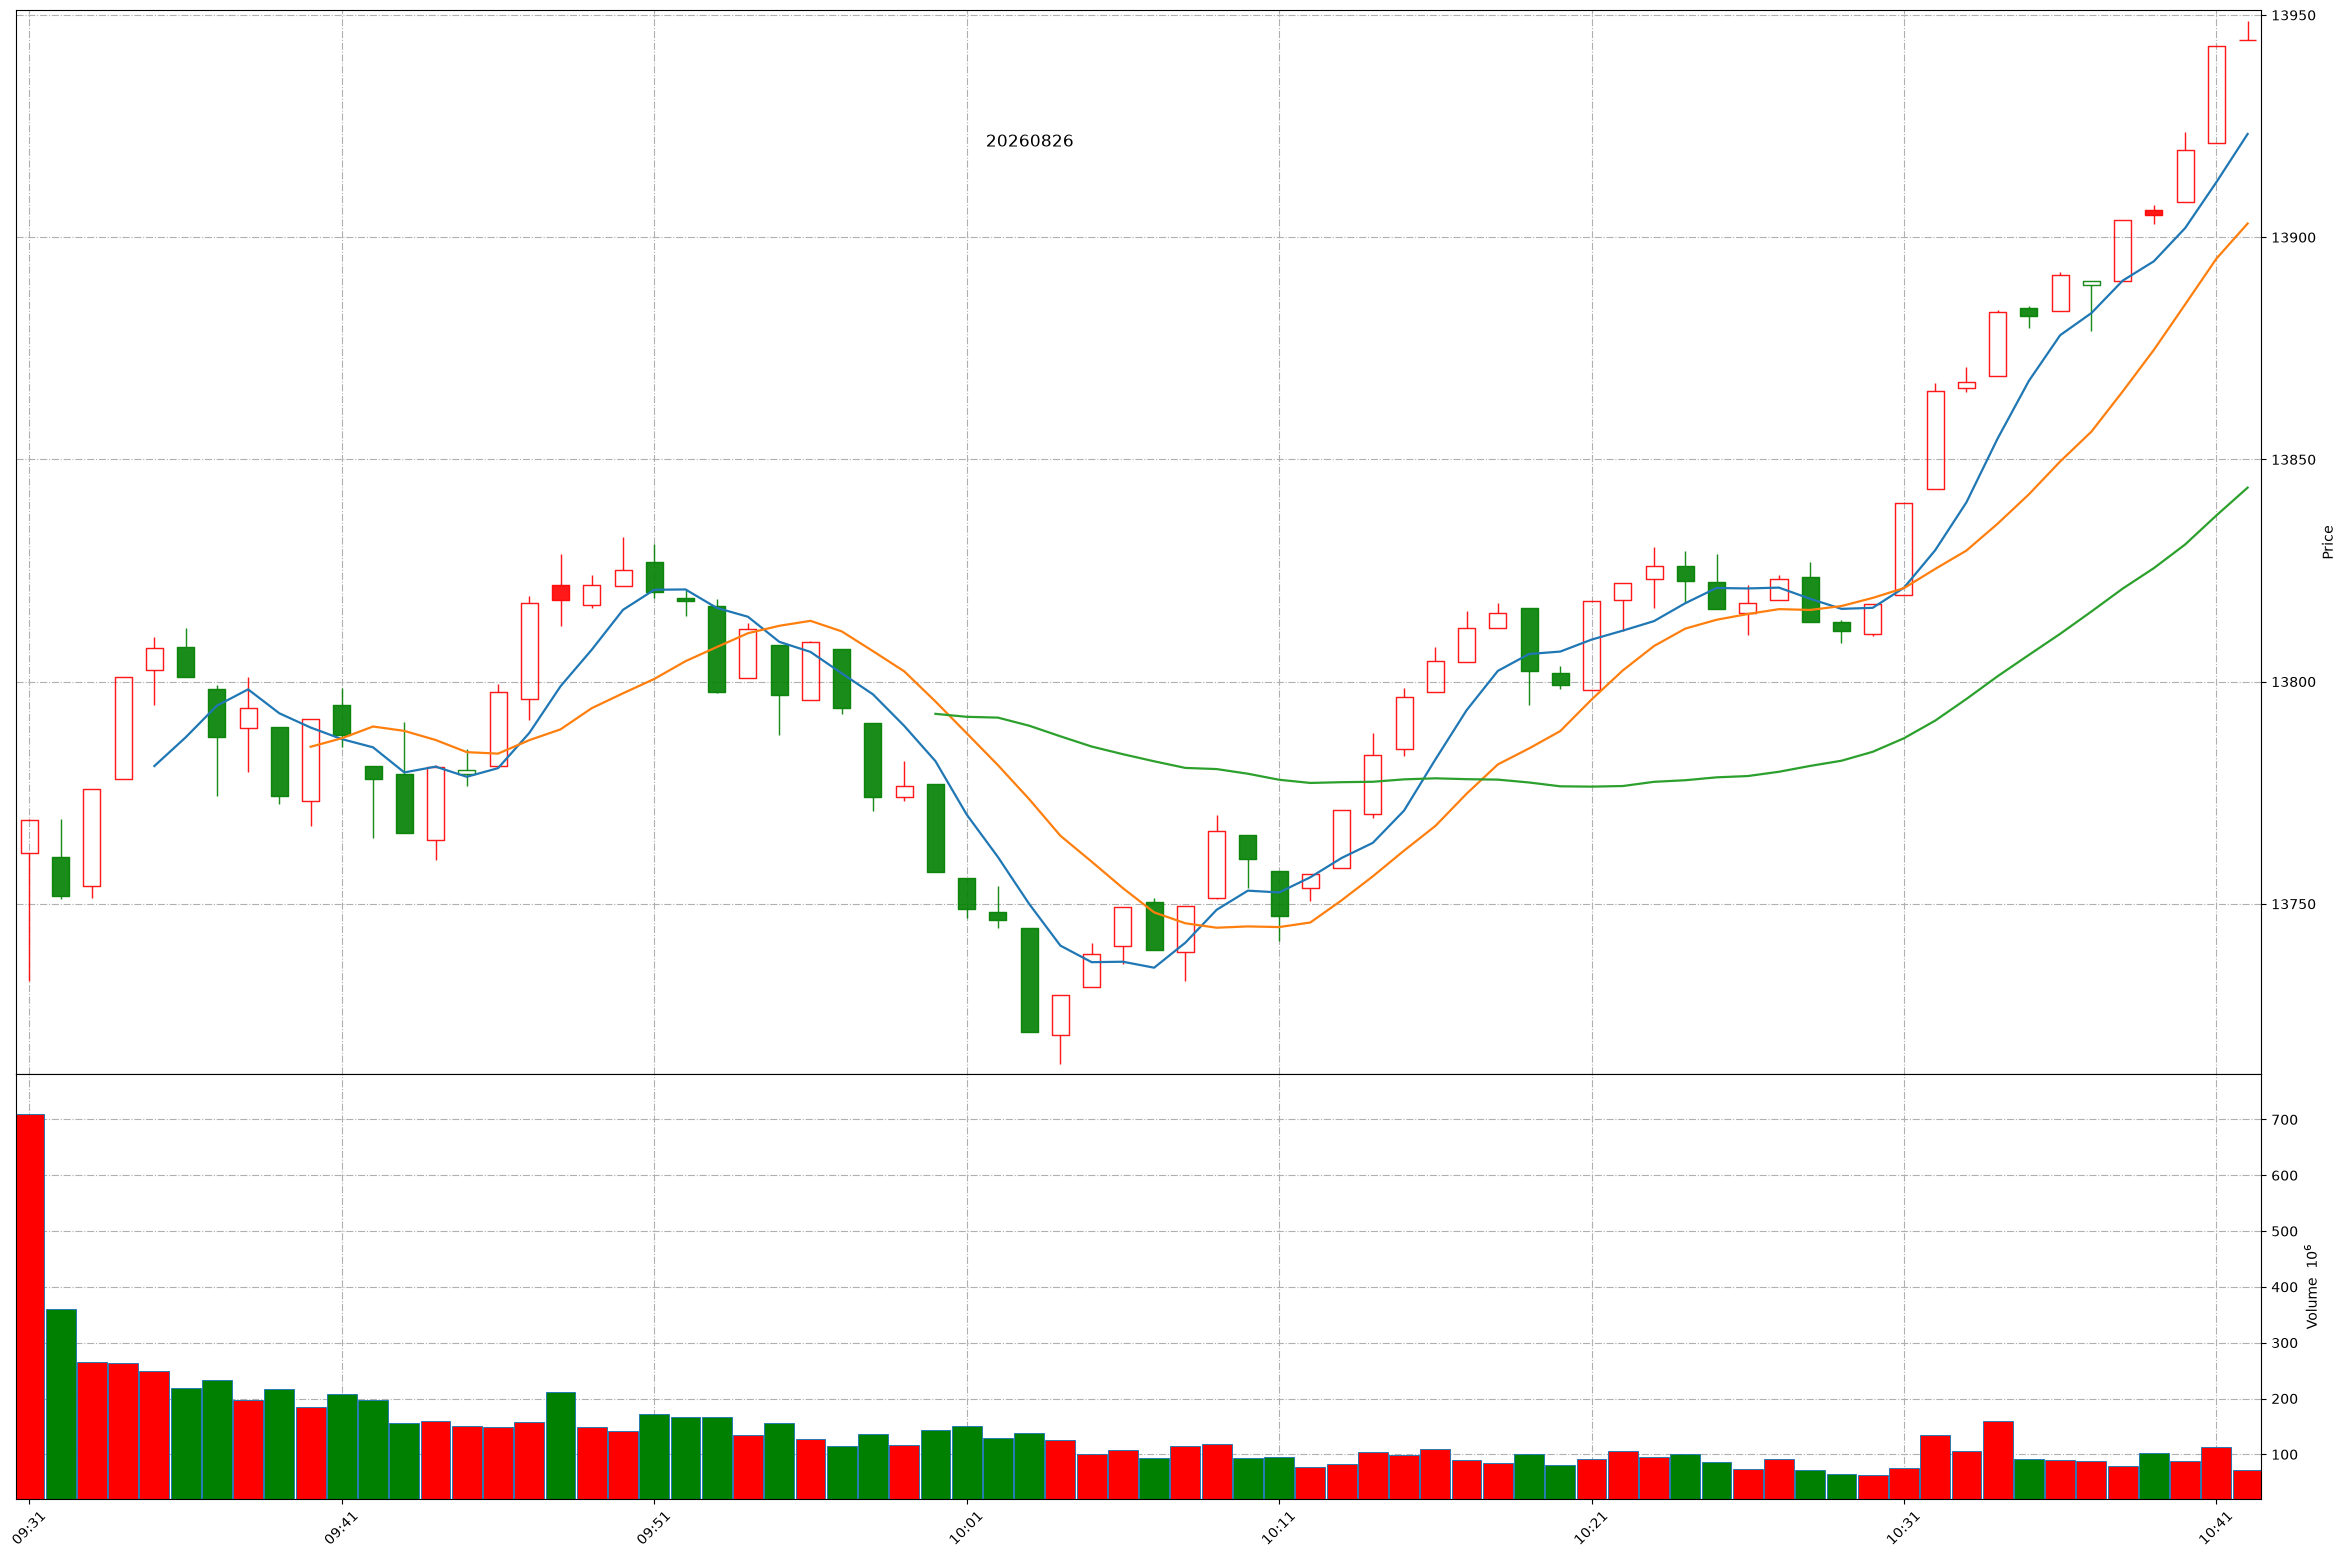
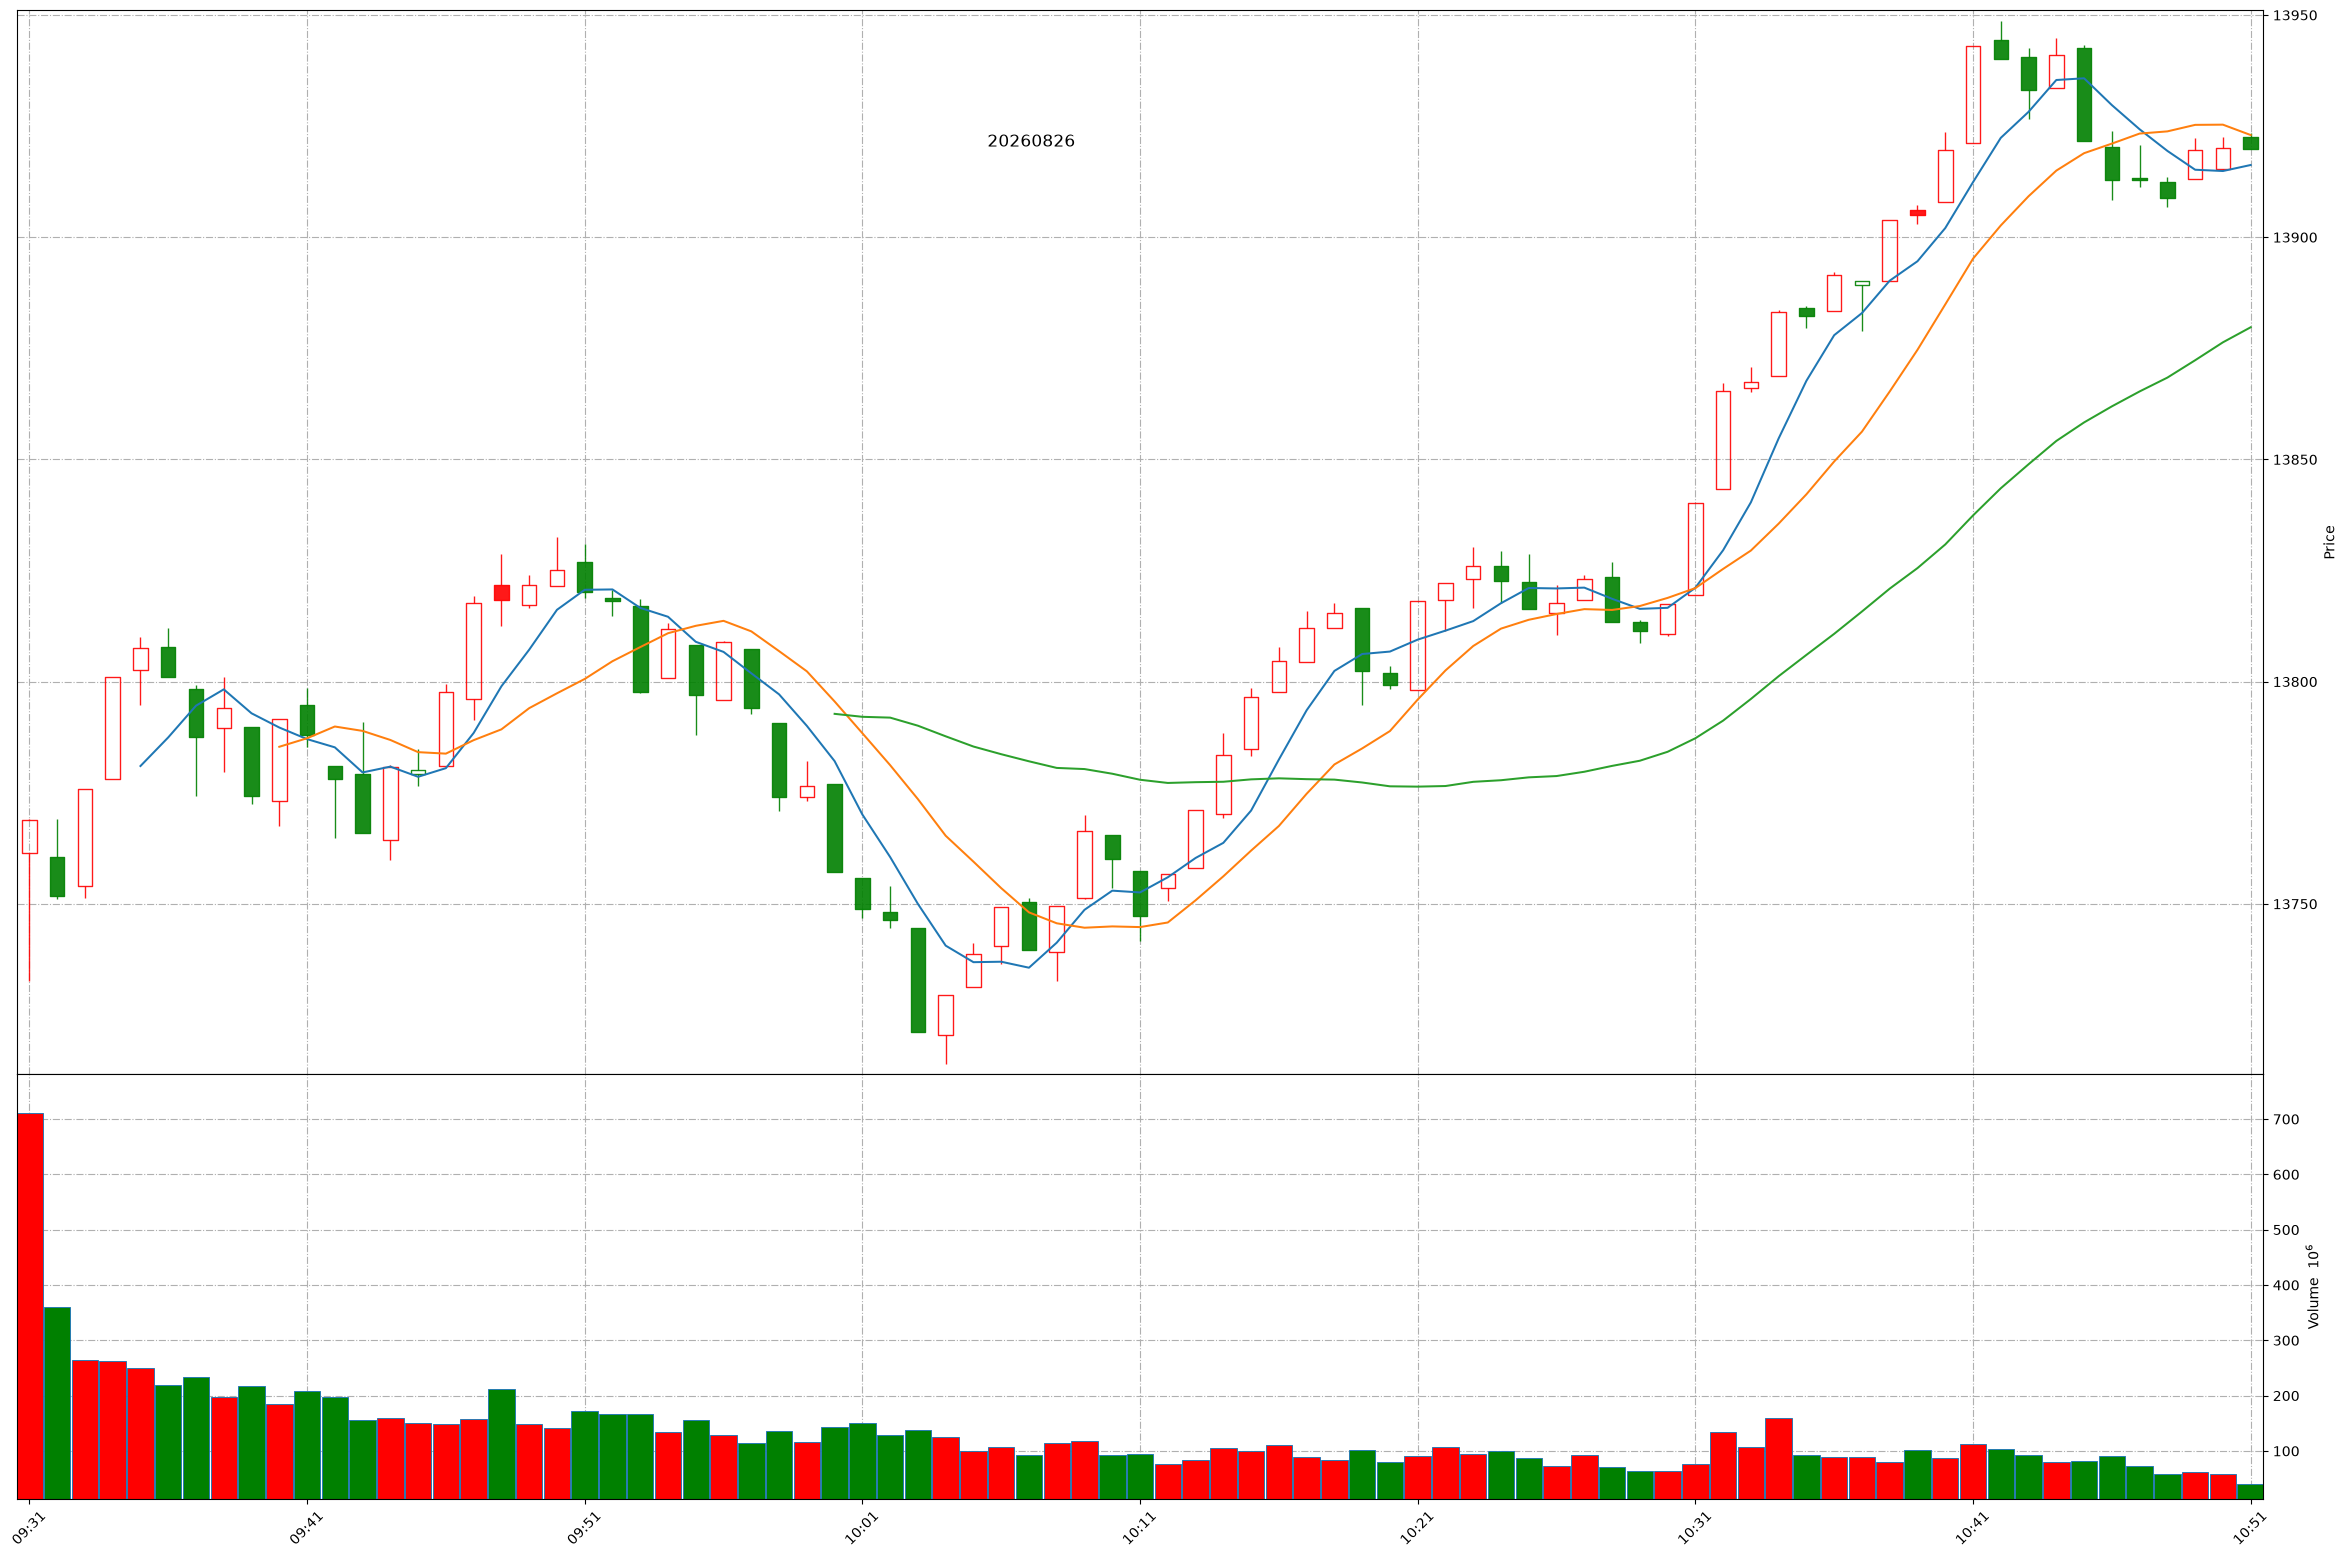
Github action update at 2026-08-26 10:50:46.

diff --git a/README.md b/README.md
@@ -1,11 +1,11 @@
 
 # Daily-A-share-market-quotes 每日 A 股指数（5min 更新）- 20260826
 
-### 上证指数 20260826 10:42
+### 上证指数 20260826 10:50
 ![](./fig/2026/8/20260826-sh000001.png)
 
-### 深证成指 20260826 10:42
+### 深证成指 20260826 10:50
 ![](./fig/2026/8/20260826-sz399001.png)
 
-### 北证50 20260826 10:42
+### 北证50 20260826 10:50
 ![](./fig/2026/8/20260826-bj899050.png)
